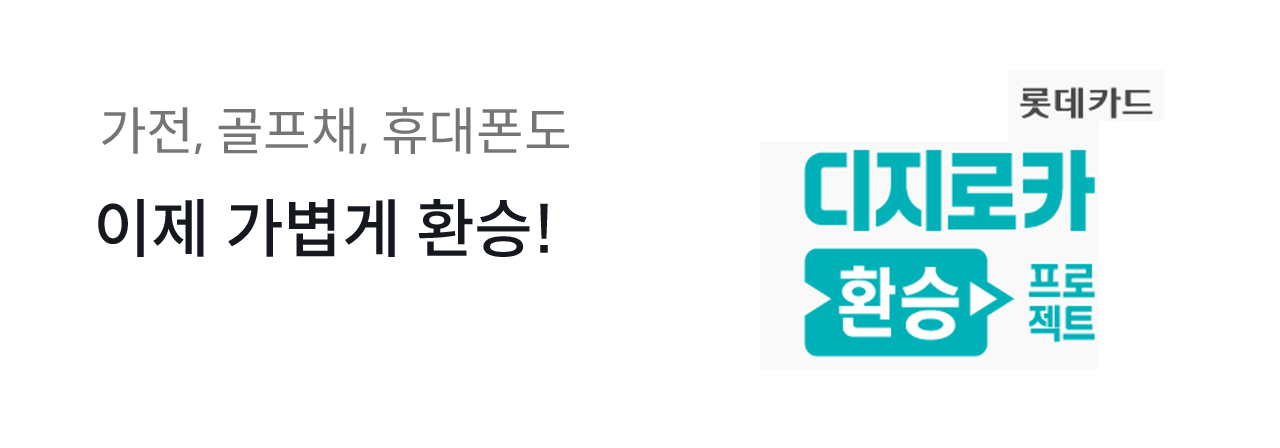
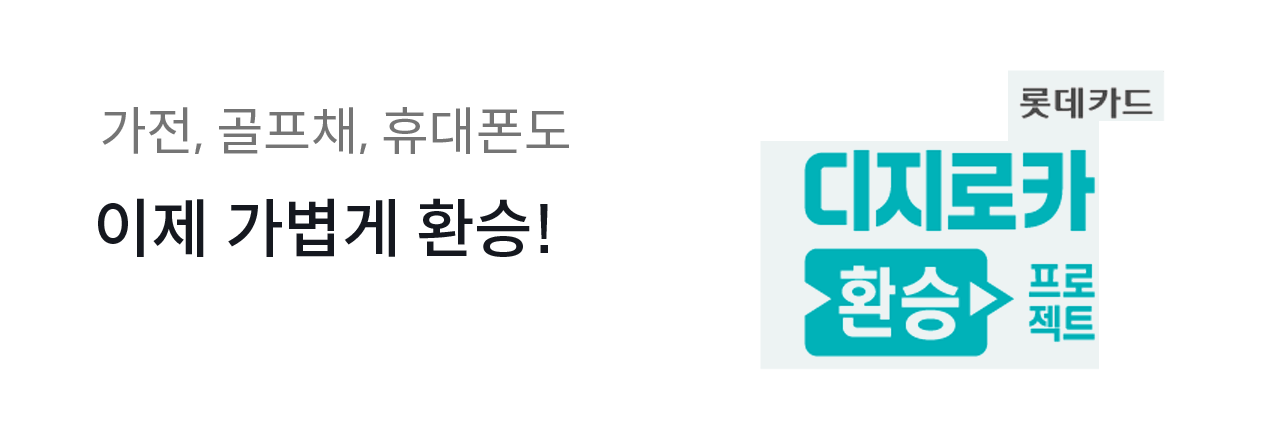
하단 배너 이미지 교체

diff --git a/src/views/main/MainHome001.vue b/src/views/main/MainHome001.vue
@@ -777,7 +777,7 @@ export default {
           <Swiper :modules="modules" pagination>
             <!-- Case : 링크 기능 없을 때 -->
             <SwiperSlide>
-              <SlideImageBannerBlock bgColor="#edf3f3">
+              <SlideImageBannerBlock bgColor="#f3f3f3">
                 <div
                   :class="[
                     $style['image-view'],
@@ -795,7 +795,7 @@ export default {
 
             <!-- Case : 링크 기능 있을 때 (RouterLink)  -->
             <SwiperSlide>
-              <SlideImageBannerBlock bgColor="#eef8f4">
+              <SlideImageBannerBlock bgColor="#dbeaf3">
                 <RouterLink to="" class="link-block">
                   <div
                     :class="[
@@ -815,7 +815,7 @@ export default {
 
             <!-- Case : 링크 기능 있을 때 (a tag) -->
             <SwiperSlide>
-              <SlideImageBannerBlock bgColor="#dbeaf3">
+              <SlideImageBannerBlock bgColor="#eef8f4">
                 <a href="" class="link-block">
                   <div
                     :class="[
@@ -834,7 +834,7 @@ export default {
             <!-- // Case : 링크 기능 있을 때 (a tag) -->
 
             <SwiperSlide>
-              <SlideImageBannerBlock bgColor="#f3f3f3">
+              <SlideImageBannerBlock bgColor="#edf3f3">
                 <div
                   :class="[
                     $style['image-view'],

diff --git a/src/views/main/MainHome002.vue b/src/views/main/MainHome002.vue
@@ -839,7 +839,7 @@ export default {
           <Swiper :modules="modules" pagination>
             <!-- Case : 링크 기능 없을 때 -->
             <SwiperSlide>
-              <SlideImageBannerBlock bgColor="#edf3f3">
+              <SlideImageBannerBlock bgColor="#f3f3f3">
                 <div
                   :class="[
                     $style['image-view'],
@@ -857,7 +857,7 @@ export default {
 
             <!-- Case : 링크 기능 있을 때 (RouterLink) -->
             <SwiperSlide>
-              <SlideImageBannerBlock bgColor="#eef8f4">
+              <SlideImageBannerBlock bgColor="#dbeaf3">
                 <RouterLink to="" class="link-block">
                   <div
                     :class="[
@@ -877,7 +877,7 @@ export default {
 
             <!-- Case : 링크 기능 있을 때 (a tag) -->
             <SwiperSlide>
-              <SlideImageBannerBlock bgColor="#dbeaf3">
+              <SlideImageBannerBlock bgColor="#eef8f4">
                 <a href="" class="link-block">
                   <div
                     :class="[
@@ -896,7 +896,7 @@ export default {
             <!-- // Case : 링크 기능 있을 때 (a tag) -->
 
             <SwiperSlide>
-              <SlideImageBannerBlock bgColor="#f3f3f3">
+              <SlideImageBannerBlock bgColor="#edf3f3">
                 <div
                   :class="[
                     $style['image-view'],

diff --git a/src/views/uiGuide/GuideIndex.vue b/src/views/uiGuide/GuideIndex.vue
@@ -614,6 +614,10 @@ const datas = () => [
             date: '2023.10.19',
             text: '배너 영역 background 추가',
           },
+          {
+            date: '2023.10.20',
+            text: '하단 배너 이미지 교체',
+          },
         ],
       },
       {
